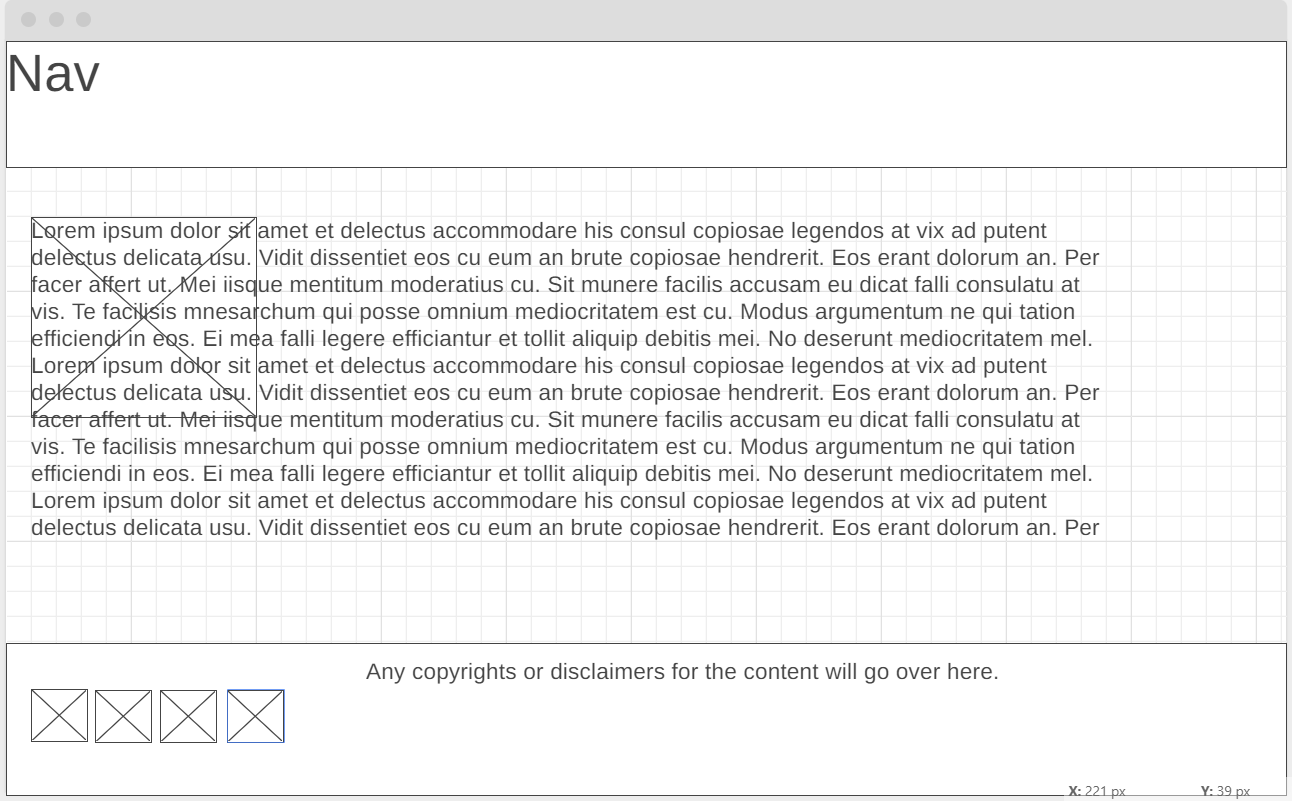
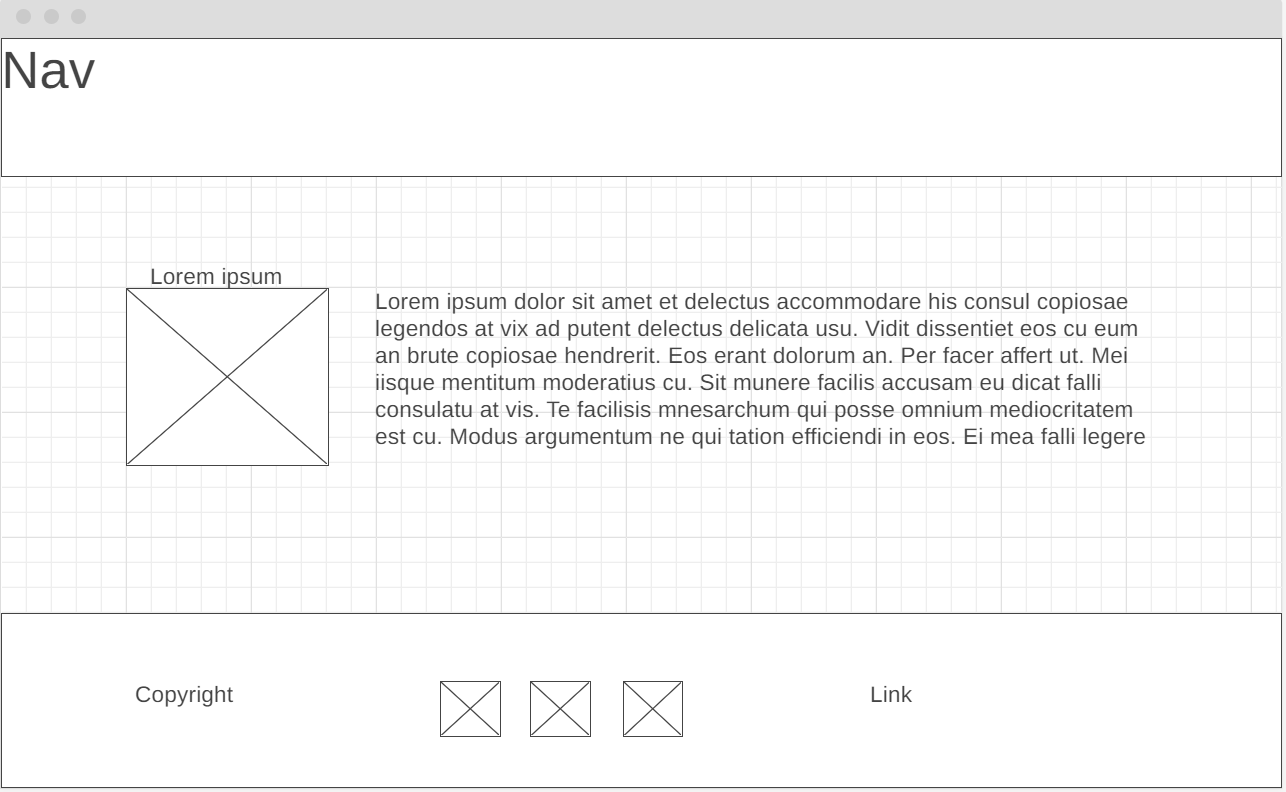
Storied and finished

diff --git a/Story.html b/Story.html
@@ -19,12 +19,16 @@
         </nav>
     </header>
     <main>
+        <div>
         <h2>Prologue</h2>
         <img src="images/mountains.jpg" alt="Misty Mountains">
         <p>At the beginning of the game Imopo is being made fun of. He runs away and climbs a mountain. The tutorial takes place on this mountain. The top of the mountain is too foggy for him to see anything, but he hears some voices. He is convinced to go home.</p>
+        </div>
+        <div>
         <h2>World 1</h2>
         <img src="images/swamp.jpg" alt="Noxious Swamp">
         <p>While trying to go back he falls into a river and ends up in the Noxious Swamp. He goes through the swamp and near the end he finds a cage. He tries to approach the cage but something comes up from the water.</p>
+        </div>
     </main>
     <footer>
         <p>Namalaland &copy; 2023 - Maxwell Tippetts</p>

diff --git a/styles/story.css b/styles/story.css
@@ -36,10 +36,6 @@ nav a:hover{
     background-color: #dd6031;
     color: #ffba08;
 }
-main{
-    display: grid;
-    grid-template-columns: 1fr 1fr;
-}
 h2{
     grid-column: 1/3;
     text-align: center;
@@ -51,14 +47,20 @@ main img{
     background-color: #fcfbfb;
     border-radius: 25px;
     width: 50%;
-    margin-left: auto;
-    margin-right: auto;
+    text-align: center;
+}
+main div{
+    text-align: center;
+    border-style: solid;
+    border-width: 10px;
+    border-color: #dd6031 #645dd7 #00c49a #ffba08;
+    margin: 10px;
 }
 footer{
     background-color: #00c49a;
     color: #000;
     padding: 25px 50px;
-    margin-top: 200px;
+    margin-top: 20px;
     display: flex;
     justify-content: space-around;
     align-items: center;

diff --git a/Plan.html b/Plan.html
@@ -190,7 +190,7 @@
       <p>         
         The image behind the text will represent the setting for those levels. There will be as many boxes as worlds, which is currently 2.
       </p>
-      <img src="images/Page3-personal.png" alt="page 2 wireframe">
+      <img src="images/Story-Final.png" alt="page 2 wireframe">
 
       <h3>Enemies</h3>
       <p>         

diff --git a/styles/enemies.css b/styles/enemies.css
@@ -56,7 +56,7 @@ main img{
     border-radius: 25px;
     border-style: solid;
     border-width: 10px;
-    border-color: #00c49a #645dd7 #dd6031 #ffba08;
+    border-color: #dd6031 #645dd7 #00c49a #ffba08;
     width: 50%;
     margin-left: auto;
     margin-right: auto;

diff --git a/styles/main.css b/styles/main.css
@@ -73,7 +73,7 @@ footer{
     background-color: #00c49a;
     color: #000;
     padding: 25px 50px;
-    margin-top: 200px;
+    margin-top: 20px;
     display: flex;
     justify-content: space-around;
     align-items: center;
